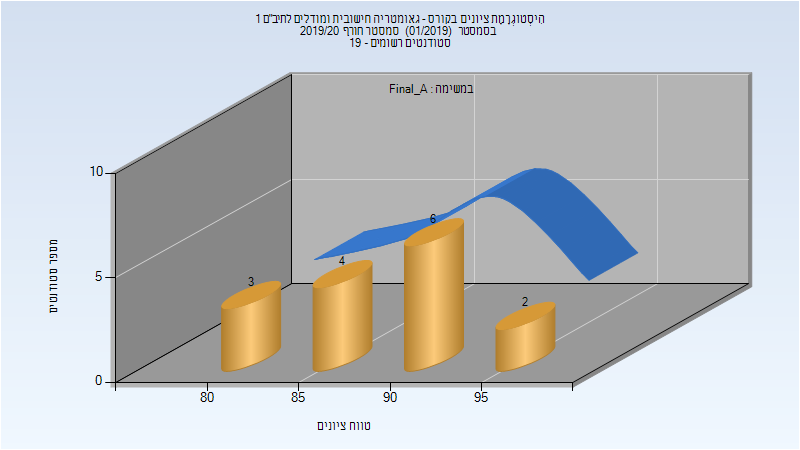
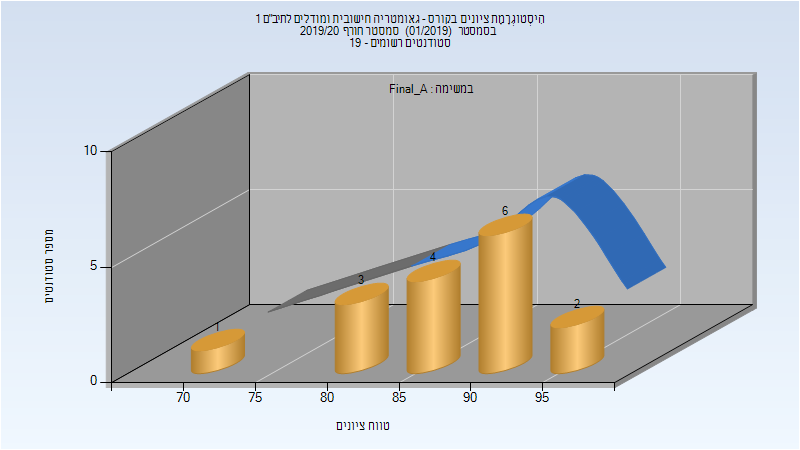
Deploy michael-maltsev/technion-histograms to github.com/michael-maltsev/technion-histograms.git:gh-pages

diff --git a/036020/index.html b/036020/index.html
@@ -20,6 +20,20 @@
   <body>
     <h1>036020 - גאומטריה חישובית ומודלים לתיב"ם 1</h1>
 <h2>חורף 2019-2020</h2>
+<table>
+<thead>
+<tr>
+<th>איש סגל</th>
+<th>תפקיד</th>
+</tr>
+</thead>
+<tbody>
+<tr>
+<td>פישר ענת</td>
+<td>מרצה - אחראי מקצוע</td>
+</tr>
+</tbody>
+</table>
 <h3>סופי מועד א'</h3>
 <p><img src="201901/Final_A.png" alt="201901 Final_A" /></p>
 <table>
@@ -36,13 +50,13 @@
 </thead>
 <tbody>
 <tr>
-<td>15</td>
-<td>15/0</td>
+<td>16</td>
+<td>16/0</td>
 <td>100</td>
-<td>82</td>
+<td>71</td>
 <td>97</td>
-<td>89.333</td>
-<td>87</td>
+<td>88.188</td>
+<td>88.5</td>
 </tr>
 </tbody>
 </table>
@@ -62,13 +76,13 @@
 </thead>
 <tbody>
 <tr>
-<td>15</td>
-<td>15/0</td>
+<td>16</td>
+<td>16/0</td>
 <td>100</td>
-<td>82</td>
+<td>71</td>
 <td>97</td>
-<td>89.333</td>
-<td>87</td>
+<td>88.188</td>
+<td>88.5</td>
 </tr>
 </tbody>
 </table>

diff --git a/034404/index.html b/034404/index.html
@@ -184,5 +184,46 @@
 </tr>
 </tbody>
 </table>
+<h2>חורף 2019-2020</h2>
+<table>
+<thead>
+<tr>
+<th>איש סגל</th>
+<th>תפקיד</th>
+</tr>
+</thead>
+<tbody>
+<tr>
+<td>לומברוזו אורן</td>
+<td>מדריך מעבדה - עם הרשאות מרצה אחראי</td>
+</tr>
+</tbody>
+</table>
+<h3>סופי</h3>
+<p><img src="201901/Finals.png" alt="201901 Finals" /></p>
+<table>
+<thead>
+<tr>
+<th>סטודנטים</th>
+<th>עברו/נכשלו</th>
+<th>אחוז עוברים</th>
+<th>ציון מינימלי</th>
+<th>ציון מקסימלי</th>
+<th>ממוצע</th>
+<th>חציון</th>
+</tr>
+</thead>
+<tbody>
+<tr>
+<td>16</td>
+<td>16/0</td>
+<td>100</td>
+<td>93</td>
+<td>98</td>
+<td>94.312</td>
+<td>93</td>
+</tr>
+</tbody>
+</table>
   </body>
 </html>

diff --git a/036020/README.md b/036020/README.md
@@ -2,13 +2,17 @@
 
 ## חורף 2019-2020
 
+| איש סגל | תפקיד |
+| ---- | ---- |
+| פישר ענת | מרצה - אחראי מקצוע |
+
 ### סופי מועד א'
 
 ![201901 Final_A](201901/Final_A.png)
 
 | סטודנטים | עברו/נכשלו | אחוז עוברים | ציון מינימלי | ציון מקסימלי | ממוצע | חציון |
 | ---- | ---- | ---- | ---- | ---- | ---- | ---- |
-| 15 | 15/0 | 100 | 82 | 97 | 89.333 | 87 |
+| 16 | 16/0 | 100 | 71 | 97 | 88.188 | 88.5 |
 
 ### סופי
 
@@ -16,5 +20,5 @@
 
 | סטודנטים | עברו/נכשלו | אחוז עוברים | ציון מינימלי | ציון מקסימלי | ממוצע | חציון |
 | ---- | ---- | ---- | ---- | ---- | ---- | ---- |
-| 15 | 15/0 | 100 | 82 | 97 | 89.333 | 87 |
+| 16 | 16/0 | 100 | 71 | 97 | 88.188 | 88.5 |
 

diff --git a/034404/README.md b/034404/README.md
@@ -55,3 +55,17 @@
 | ---- | ---- | ---- | ---- | ---- | ---- | ---- |
 | 15 | 15/0 | 100 | 89 | 93 | 90.8 | 91 |
 
+## חורף 2019-2020
+
+| איש סגל | תפקיד |
+| ---- | ---- |
+| לומברוזו אורן | מדריך מעבדה - עם הרשאות מרצה אחראי |
+
+### סופי
+
+![201901 Finals](201901/Finals.png)
+
+| סטודנטים | עברו/נכשלו | אחוז עוברים | ציון מינימלי | ציון מקסימלי | ממוצע | חציון |
+| ---- | ---- | ---- | ---- | ---- | ---- | ---- |
+| 16 | 16/0 | 100 | 93 | 98 | 94.312 | 93 |
+
